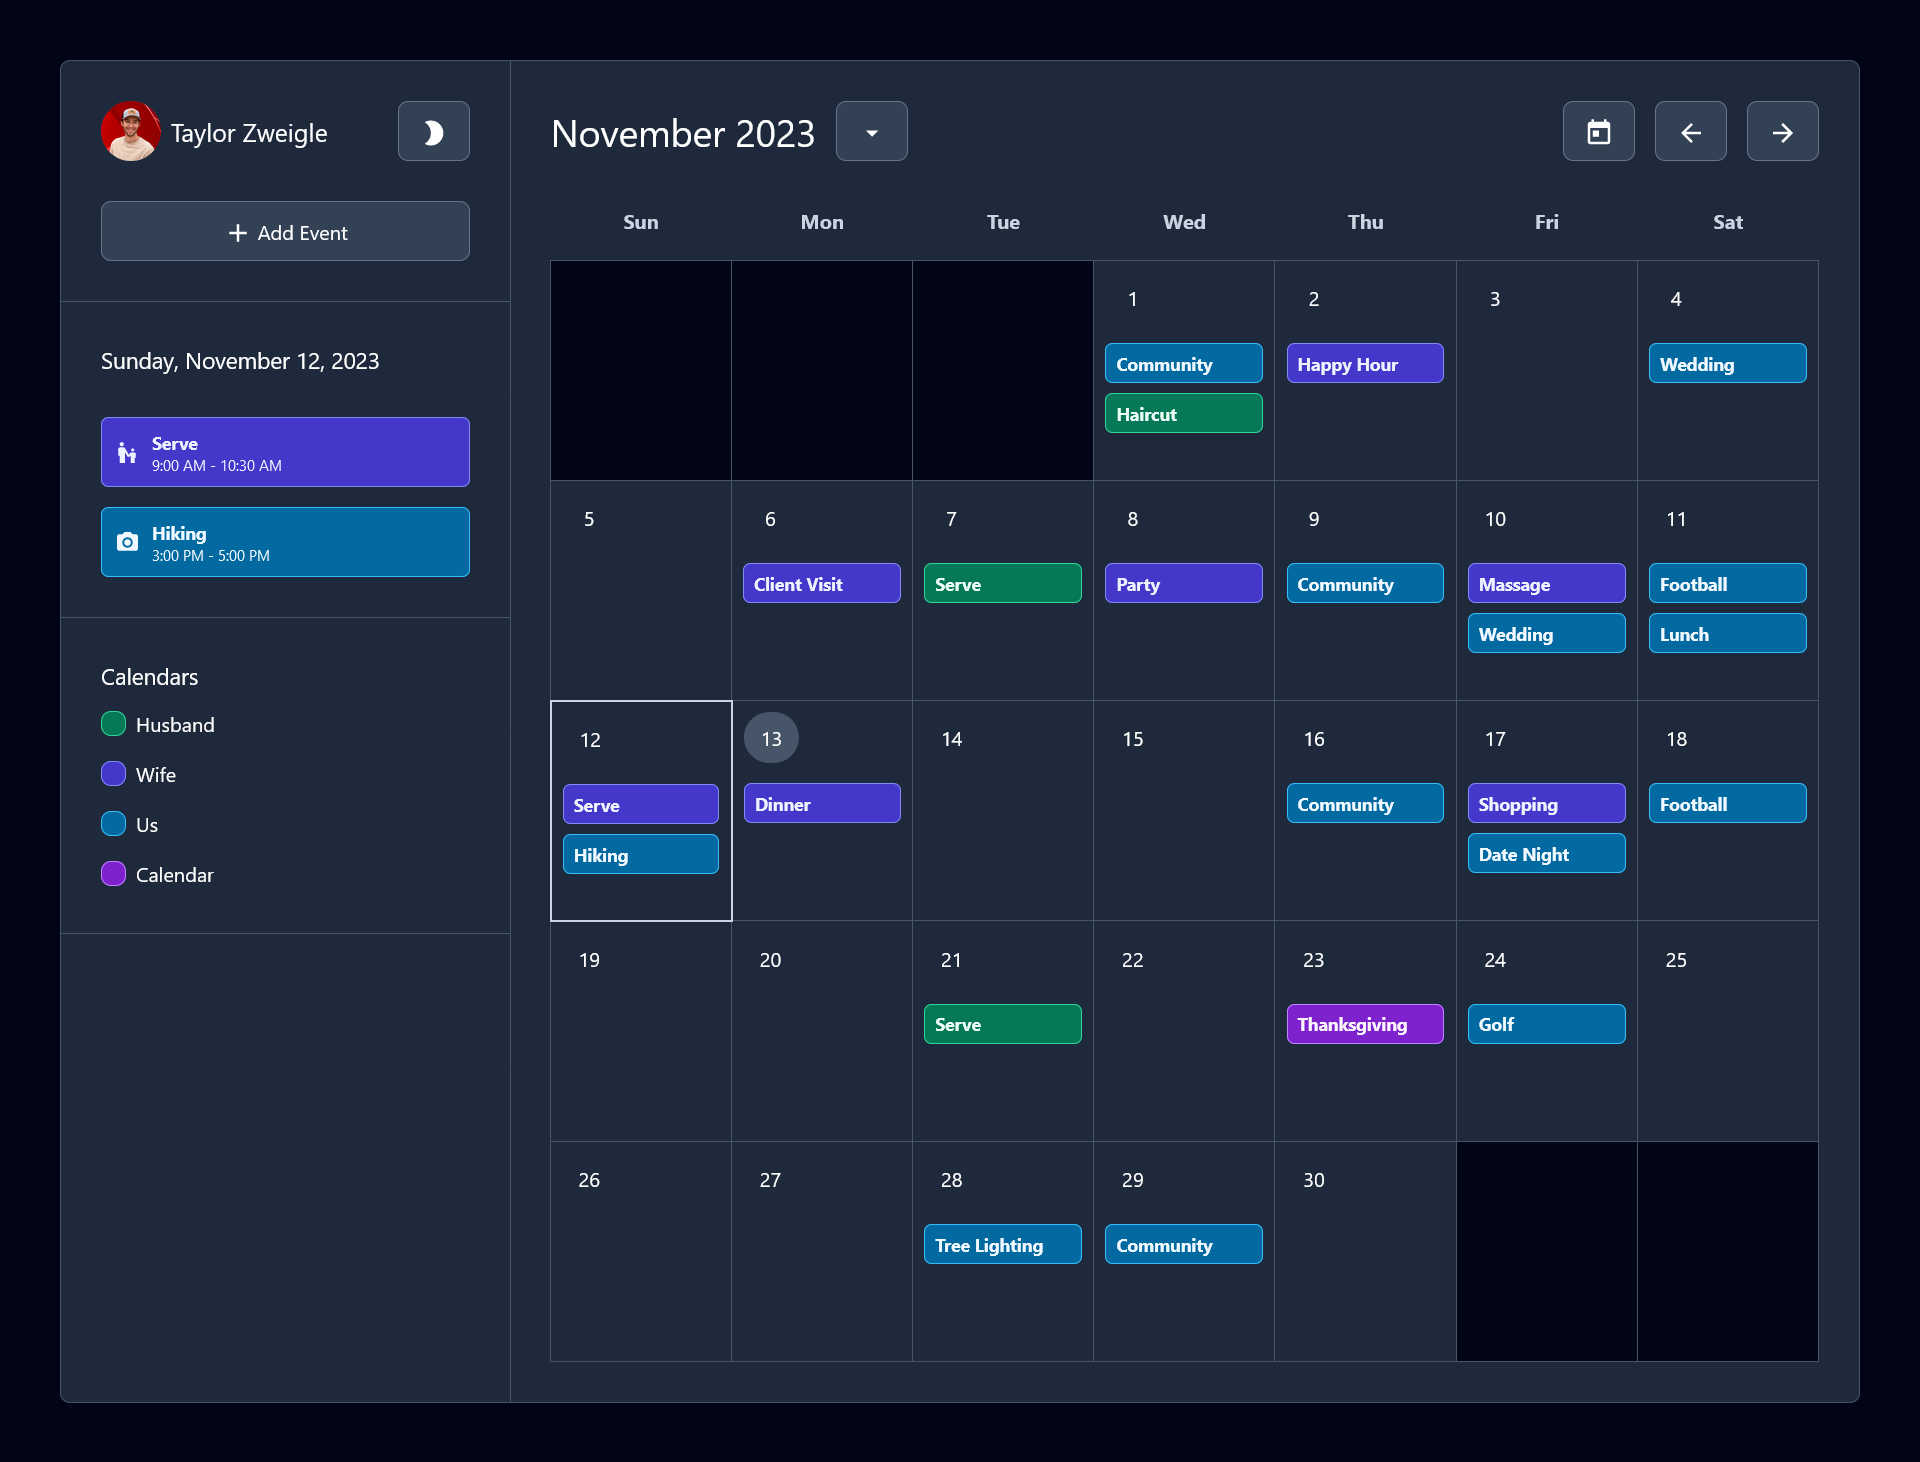
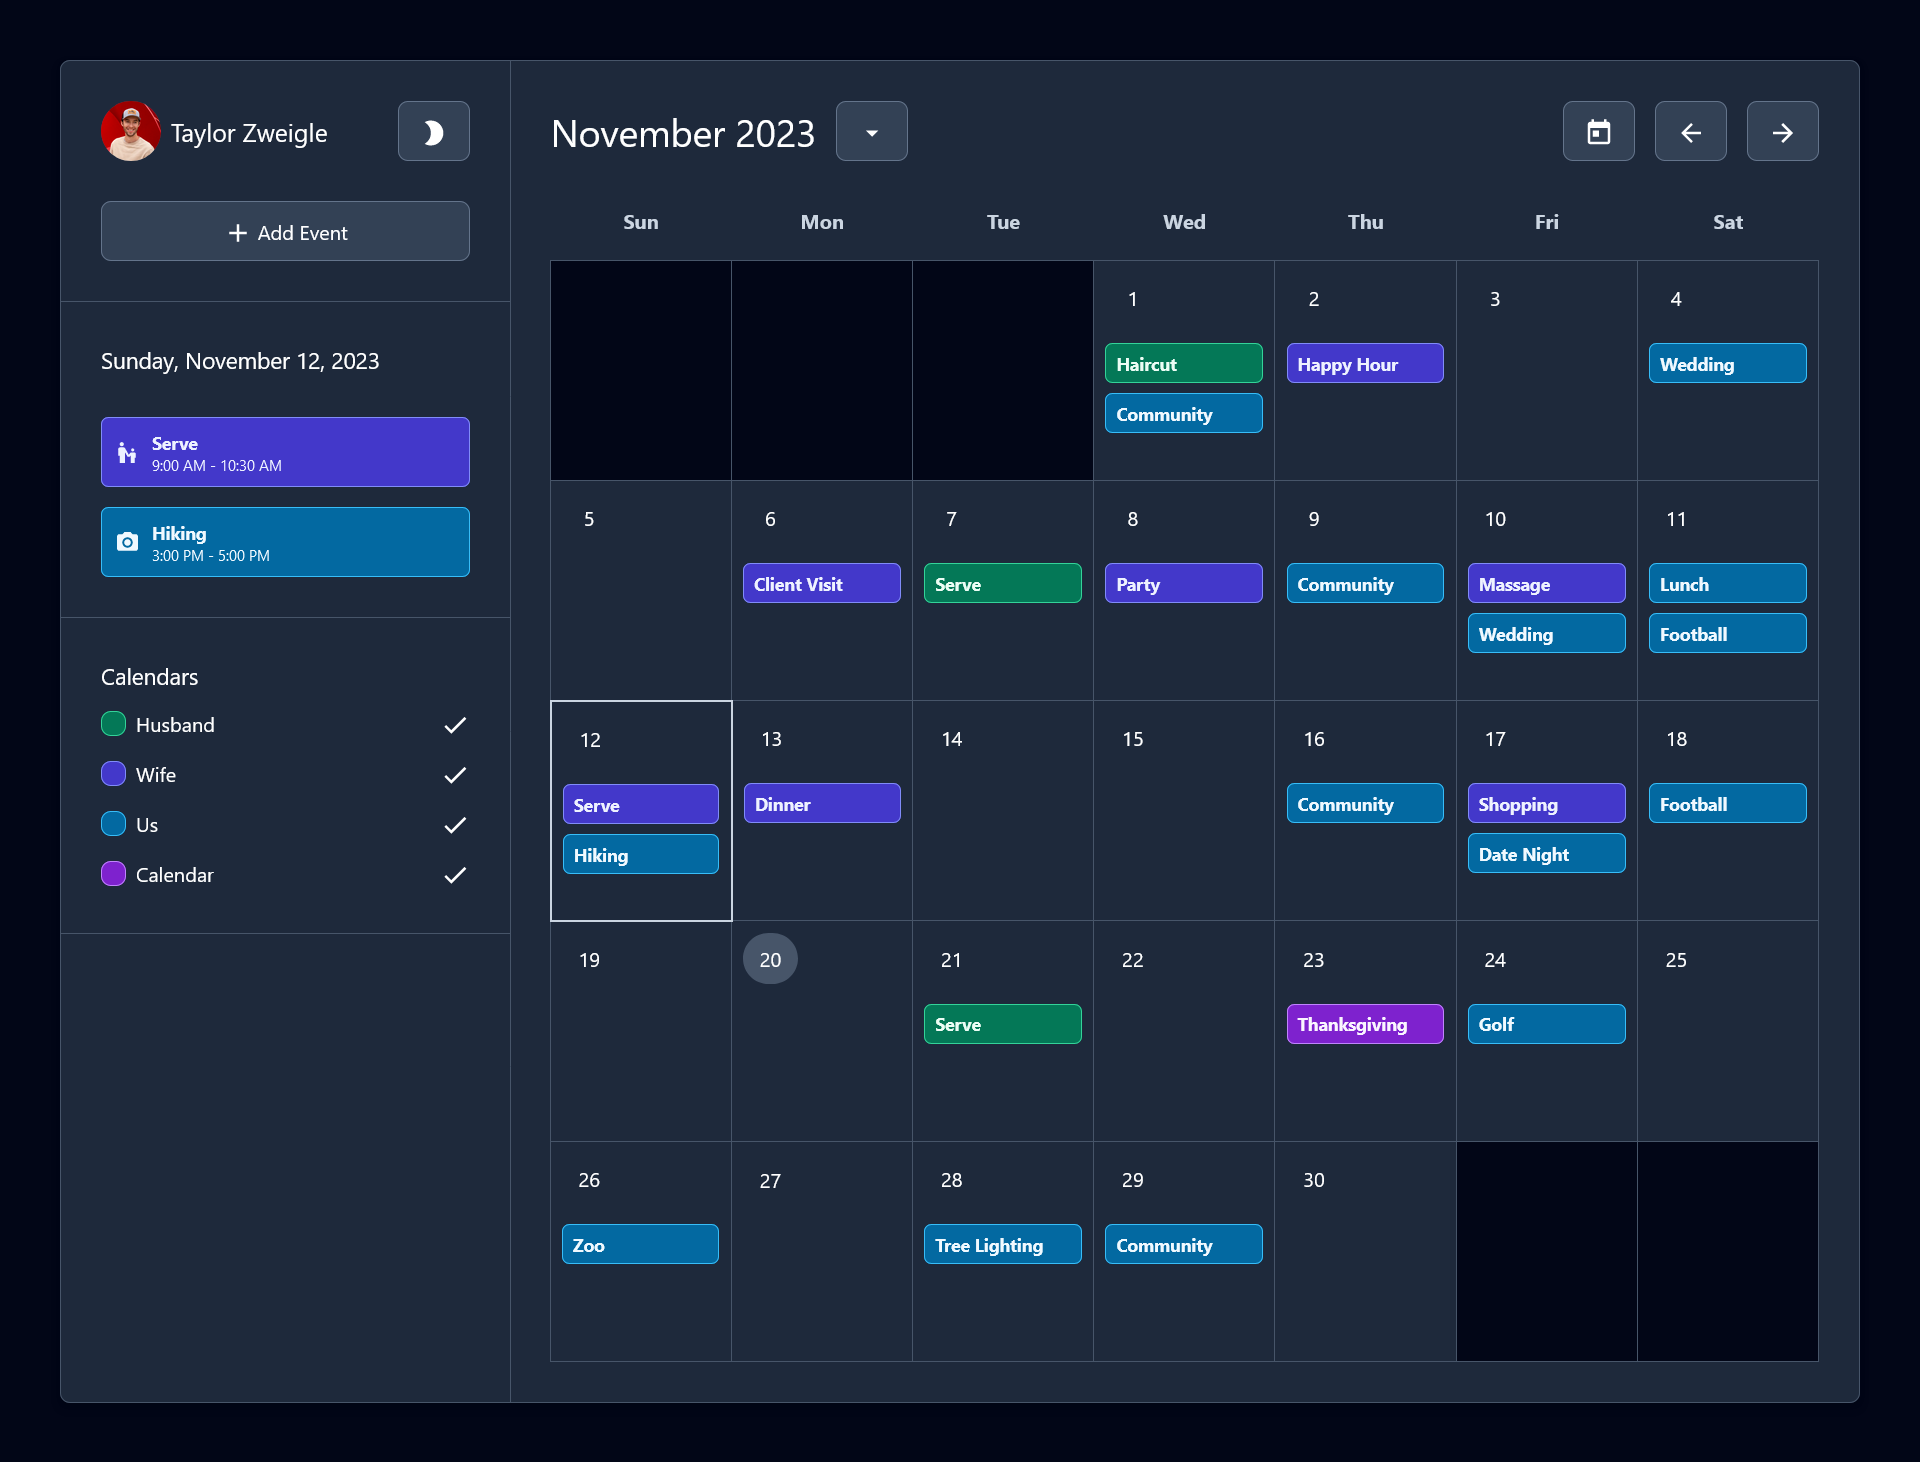
updated images, fixed mobile legend

diff --git a/app/recipes/LegendLayout.jsx b/app/recipes/LegendLayout.jsx
@@ -8,12 +8,12 @@ import Typography from "../components/typography/Typography";
 
 import { calendars } from "../utility/calendars";
 
-const LegendLayout = ({ row, onClick }) => {
+const LegendLayout = ({ onClick }) => {
   return (
     <div className="flex flex-col gap-8 border-b border-slate-300 dark:border-slate-600 p-8">
       <div className="flex flex-col gap-2">
         <Typography variant="subheading">Calendars</Typography>
-        <div className={`flex ${row ? "flex-row" : "flex-col"} ${row ? "gap-8" : "gap-2"}`}>
+        <div className={`flex sm:flex-row md:flex-col sm:w-full sm:justify-between sm:gap-8 md:gap-2`}>
           {calendars.map((calendar) => (
             <Legend key={calendar.id} color={calendar.color} label={calendar.user} onClick={onClick} />
           ))}

diff --git a/app/components/legend/Legend.jsx b/app/components/legend/Legend.jsx
@@ -21,7 +21,7 @@ const Legend = ({ color, label, onClick }) => {
   };
 
   return (
-    <div className="flex flex-row justify-between items-center h-8 cursor-pointer" onClick={handleLegendClick}>
+    <div className="flex flex-row justify-between items-center w-full h-8 cursor-pointer" onClick={handleLegendClick}>
       <div className="flex flex-row items-center gap-2">
         <div
           className={`${selected ? colors.bg : "bg-white dark:bg-slate-800"} border ${

diff --git a/app/components/modal/Modal.jsx b/app/components/modal/Modal.jsx
@@ -12,7 +12,7 @@ const Modal = ({ children, open, title, action, onAction, onClose }) => {
     <div
       className={`${
         open ? "block" : "hidden"
-      } fixed z-50 left-0 top-0 w-full h-full overflow-auto bg-white/25 dark:bg-slate-500/50 drop-shadow-md`}
+      } fixed z-50 left-0 top-0 w-full h-full overflow-auto bg-slate-950/50 dark:bg-slate-500/50 drop-shadow-md`}
     >
       <div className="m-auto p-8 sm:w-4/5 md:w-2/5">
         <Card>

diff --git a/app/recipes/CalendarCard.jsx b/app/recipes/CalendarCard.jsx
@@ -148,7 +148,7 @@ const CalendarCard = () => {
                 />
               </div>
               <div className="sm:col-span-12 md:col-span-12">
-                <LegendLayout row={false} onClick={handleLegendChange} />
+                <LegendLayout onClick={handleLegendChange} />
               </div>
             </div>
           </div>

diff --git a/README.md b/README.md
@@ -6,22 +6,27 @@ The app allows for navigating to the previous and next months using arrow button
 
 ## Screenshots
 
-### Dark Theme
+### App
 
 ![Home_Page](https://github.com/taylorzweigle/Schedule-App/blob/main/img/Schedule_App_Dark.png)
-
-### Light Theme
-
 ![Home_Page](https://github.com/taylorzweigle/Schedule-App/blob/main/img/Schedule_App_Light.png)
 
 ### Add Event
 
-![Create_Event](https://github.com/taylorzweigle/Schedule-App/blob/main/img/Schedule_App_Add_Event.png)
+![Create_Event](https://github.com/taylorzweigle/Schedule-App/blob/main/img/Schedule_App_Add_Event_Dark.png)
+![Create_Event](https://github.com/taylorzweigle/Schedule-App/blob/main/img/Schedule_App_Add_Event_Light.png)
 
 ### View Event
 
-![Event_Details](https://github.com/taylorzweigle/Schedule-App/blob/main/img/Schedule_App_Event.png)
+![Event_Details](https://github.com/taylorzweigle/Schedule-App/blob/main/img/Schedule_App_Event_Dark.png)
+![Event_Details](https://github.com/taylorzweigle/Schedule-App/blob/main/img/Schedule_App_Event_Light.png)
+
+### Filter Calendars
+
+![Filter](https://github.com/taylorzweigle/Schedule-App/blob/main/img/Schedule_App_Event_Dark.png)
+![Filter](https://github.com/taylorzweigle/Schedule-App/blob/main/img/Schedule_App_Event_Light.png)
 
 ### Mobile
 
-![Event_Details](https://github.com/taylorzweigle/Schedule-App/blob/main/img/Schedule_App_Mobile.png)
+![Mobile](https://github.com/taylorzweigle/Schedule-App/blob/main/img/Schedule_App_Mobile_Dark.png)
+![Mobile](https://github.com/taylorzweigle/Schedule-App/blob/main/img/Schedule_App_Mobile_Light.png)
